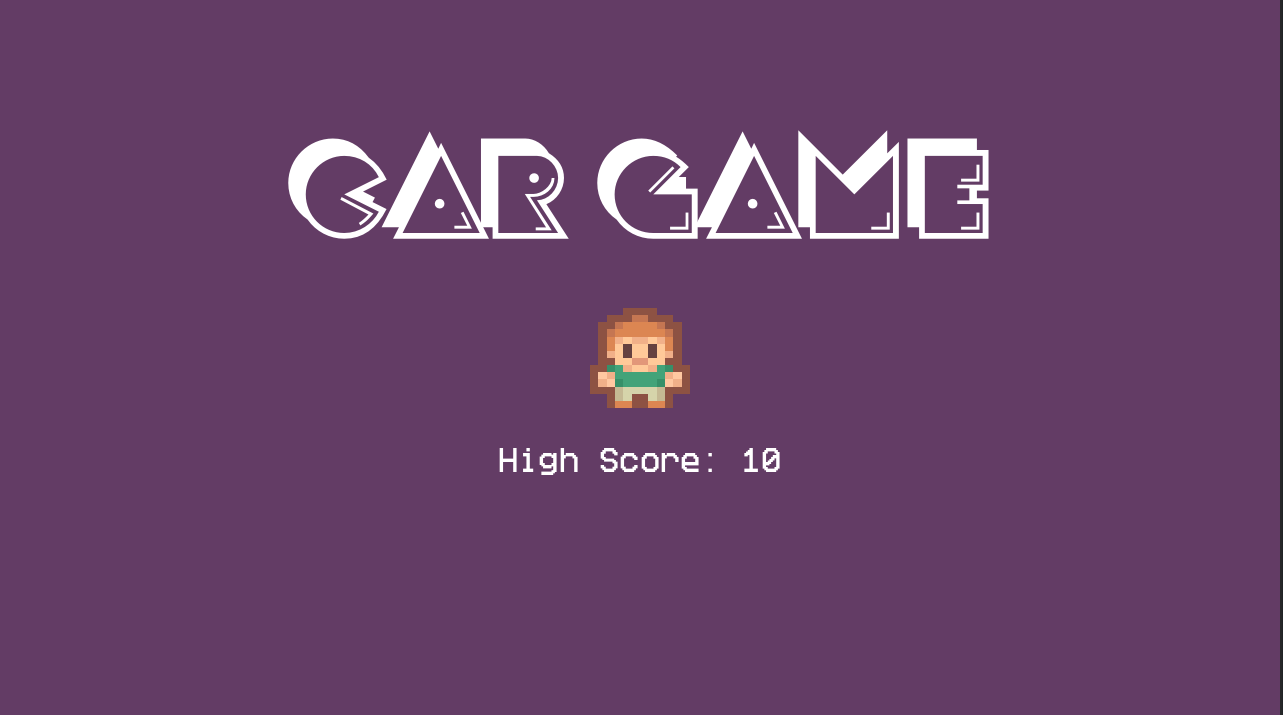
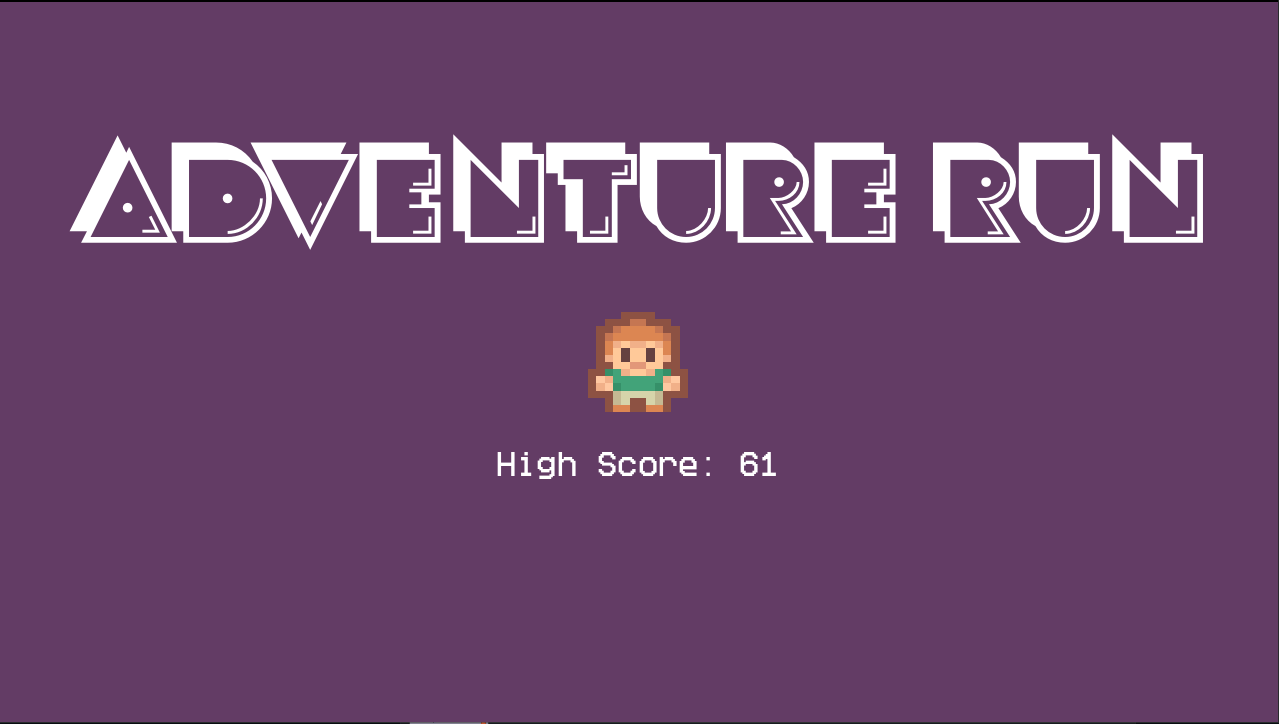
Add files via upload

diff --git a/index.html b/index.html
@@ -135,12 +135,14 @@
           <div id="adventure-run-gallery" class="gallery-section" data-game="adventure-run">
             <div class="media-heading">
               <p class="eyebrow">Adventure Run screenshots</p>
-              <p>A look at the street scene and the game-over screen.</p>
+              <p>A look at exploration, traffic, and the game-over screens.</p>
               <div class="media-controls screenshot-controls"><button class="media-arrow screenshot-prev" type="button" aria-label="Previous Adventure Run screenshot">←</button><span class="screenshot-position">01 / 02</span><button class="media-arrow screenshot-next" type="button" aria-label="Next Adventure Run screenshot">→</button></div>
             </div>
             <div class="gallery">
-              <figure><button class="gallery-open" data-image="adventure-run-gameplay.png" data-alt="Adventure Run gameplay with the player navigating a pixel-art street" aria-label="Open Adventure Run gameplay screenshot"><img src="adventure-run-gameplay.png" alt="Adventure Run gameplay with the player navigating a pixel-art street" /></button><figcaption>Navigating the street during a run</figcaption></figure>
-              <figure><button class="gallery-open" data-image="adventure-run-game-over.png" data-alt="Adventure Run game-over screen showing the player's high score" aria-label="Open Adventure Run game-over screenshot"><img src="adventure-run-game-over.png" alt="Adventure Run game-over screen showing the player's high score" /></button><figcaption>Game over and high-score screen</figcaption></figure>
+              <figure><button class="gallery-open" data-image="adventure-run-gameplay.png" data-alt="Adventure Run gameplay showing the player exploring a colorful pixel-art area" aria-label="Open Adventure Run gameplay screenshot"><img src="adventure-run-gameplay.png" alt="Adventure Run gameplay showing the player exploring a colorful pixel-art area" /></button><figcaption>Exploring the colorful game world</figcaption></figure>
+              <figure><button class="gallery-open" data-image="adventure-run-road.png" data-alt="Adventure Run gameplay showing the player crossing a road with moving cars" aria-label="Open Adventure Run road screenshot"><img src="adventure-run-road.png" alt="Adventure Run gameplay showing the player crossing a road with moving cars" /></button><figcaption>Crossing the road between traffic</figcaption></figure>
+              <figure><button class="gallery-open" data-image="adventure-run-game-over.png" data-alt="Adventure Run game-over screen showing a high score of 61" aria-label="Open Adventure Run game-over screenshot"><img src="adventure-run-game-over.png" alt="Adventure Run game-over screen showing a high score of 61" /></button><figcaption>Game over with a high score of 61</figcaption></figure>
+              <figure><button class="gallery-open" data-image="adventure-run-retry.png" data-alt="Adventure Run game-over screen prompting the player to try again" aria-label="Open Adventure Run retry screenshot"><img src="adventure-run-retry.png" alt="Adventure Run game-over screen prompting the player to try again" /></button><figcaption>Retry screen after the run ends</figcaption></figure>
             </div>
           </div>
         </div>

diff --git a/README.md b/README.md
@@ -36,3 +36,5 @@ This is the source code for my personal game-development portfolio. I’m learni
 - `pocket-survivor-game-over.png` — game-over screenshot
 - `adventure-run-gameplay.png` — Adventure Run gameplay screenshot
 - `adventure-run-game-over.png` — Adventure Run game-over screenshot
+- `adventure-run-road.png` — Adventure Run road gameplay screenshot
+- `adventure-run-retry.png` — Adventure Run retry screen screenshot
